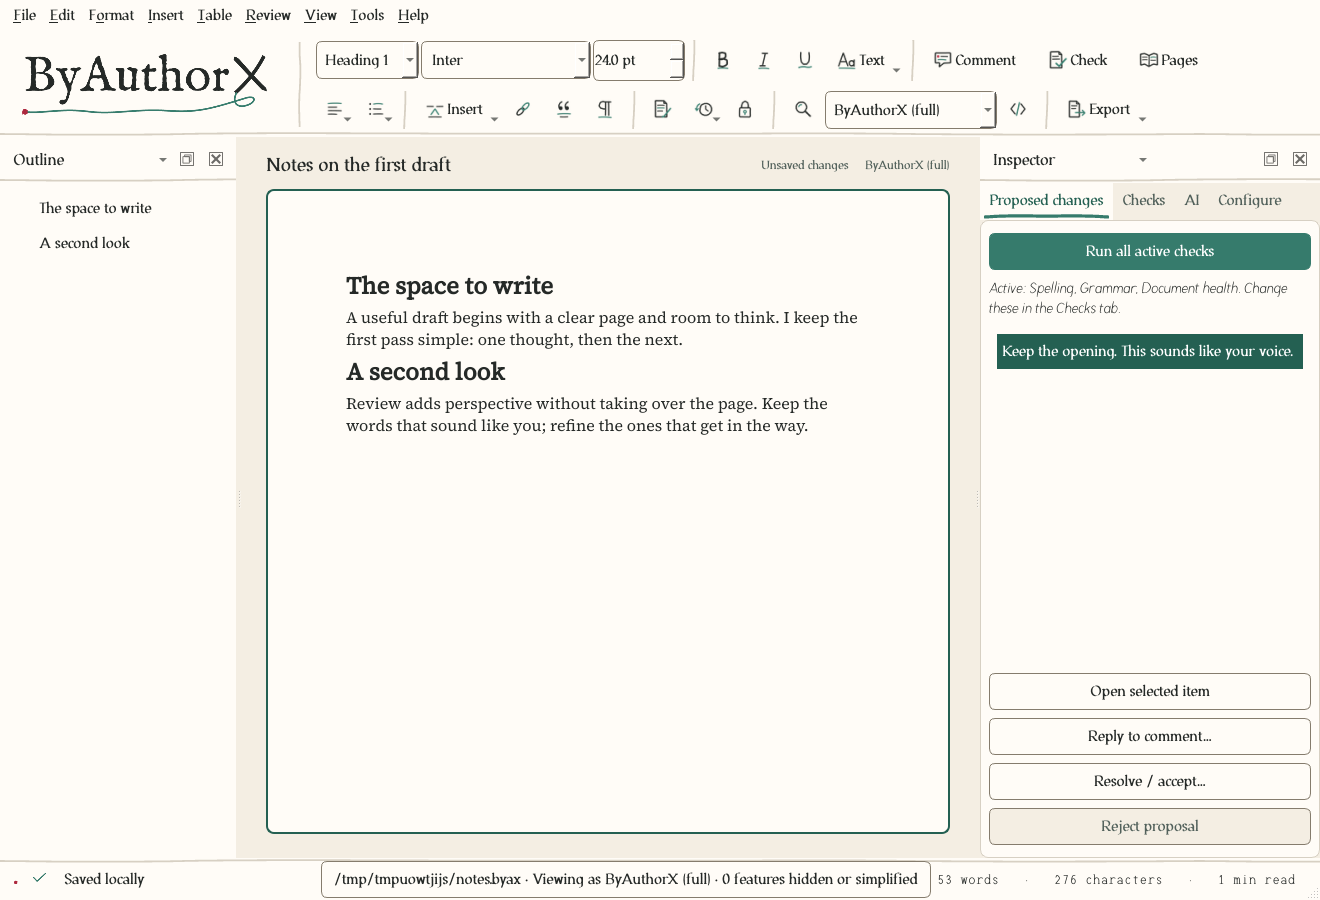
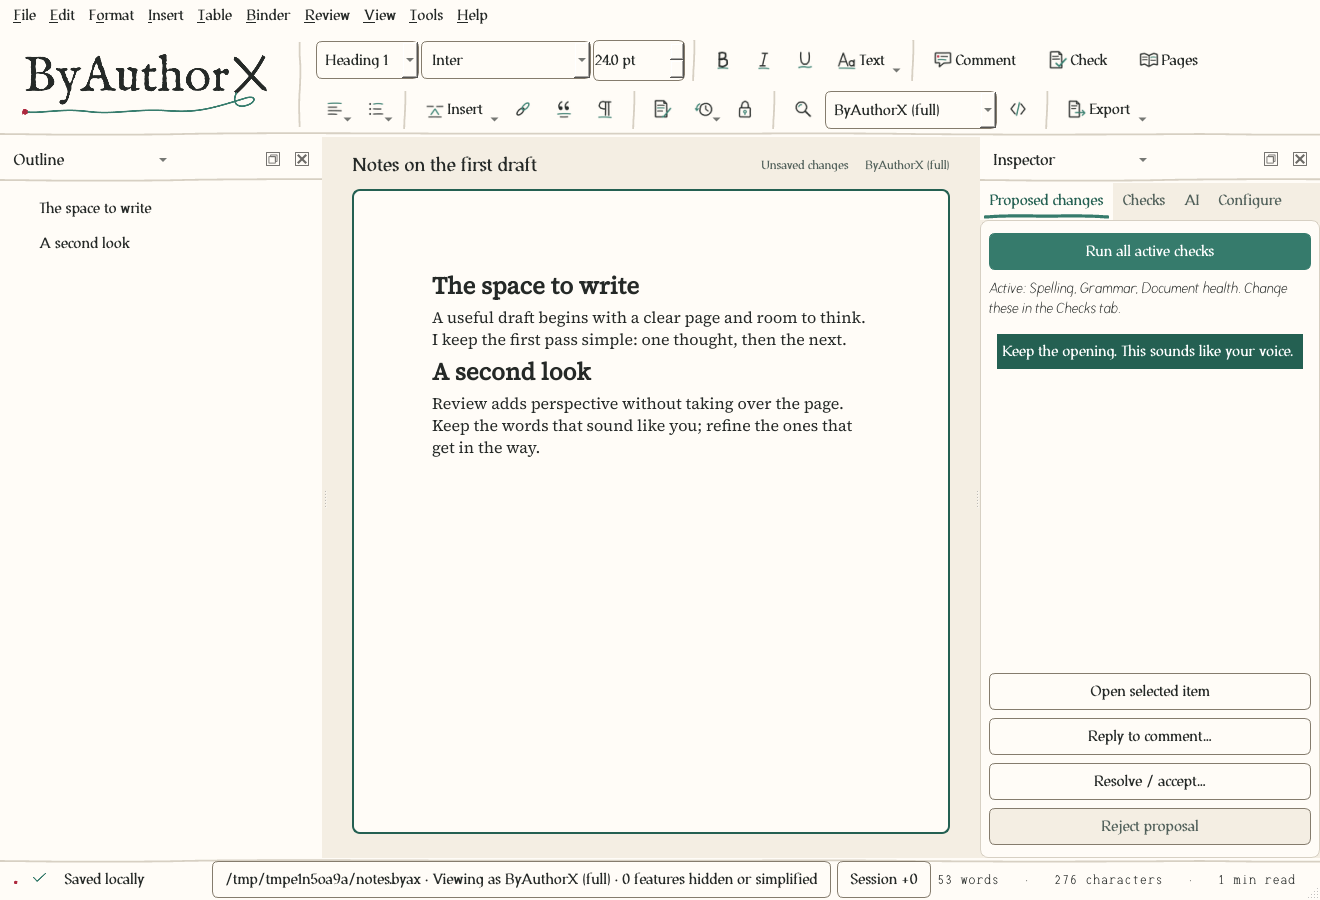
Update README for 0.4.1 and regenerate documentation screenshots
Claude-Session: https://claude.ai/code/session_015NFBh6Nsx9jQK14QV42dE1

diff --git a/README.md b/README.md
@@ -9,7 +9,7 @@
 
 A native desktop word processor with a shared, programmable document engine. Write in a Qt desktop editor, save editable `.byax` documents, inspect and edit through the CLI or MCP, and export through the same typography engine.
 
-**Version 0.3.0** (see the [changelog](CHANGELOG.md)). Installers are unsigned unless a release's notes say otherwise, and have not been verified on physical Windows 11, Ubuntu 24.04 or Apple silicon Mac desktops (the macOS port builds in CI and its platform code is unit tested, but no Mac has run it yet).
+**Version 0.4.1** (see the [changelog](CHANGELOG.md)). Installers are unsigned unless a release's notes say otherwise, and have not been verified on physical Windows 11, Ubuntu 24.04 or Apple silicon Mac desktops (the macOS port builds in CI and its platform code is unit tested, but no Mac has run it yet).
 
 **Implementation status:** runnable application, with automated engine, format, provider-contract, desktop, and integration tests. The complete product specification remains the acceptance target. See [the acceptance matrix](docs/acceptance-matrix.md) for verified behavior and material gaps; this repository does not claim all specification scenarios are complete. Windows 11 x64, Ubuntu 24.04 x64 and macOS 14+ on Apple silicon are the intended installation targets. Live model services and physical desktop integrations require separate verification.
 
@@ -53,6 +53,17 @@ The editor includes a continuous writing view, a paginated preview, semantic out
 The Inspector has four tabs. **Proposed changes** lists pending edits, comments and findings and runs all active checks; **Checks** marks each check (spelling, grammar, document health, information repository, factual accuracy, voice consistency and custom checks) active or inactive; **AI** hosts the assistant with a persisted **Work / Chat** switch; **Configure** holds API keys, information repositories, profiles and export settings. Spelling runs locally with suggestions, exact replacements, a document dictionary, and session-only ignore. Chat mode only answers and never changes the document. Work mode may suggest exact range edits, which are shown to you and, after confirmation, added to Proposed changes as pending proposals; nothing changes until you accept each one. Remote messages show the exact outbound payload for authorization unless the provider's saved policy allows remote calls.
 
 **AI is opt-in, not opt-out.** Nothing sends your writing to a model until you add a provider and choose to use it. You pick the provider: a hosted service with your own key, or a local model that runs on your computer, such as Ollama, whisper.cpp or an OpenAI-compatible local server. Unconfigured AI functions do not prevent writing, saving, printing, or deterministic checks. Each provider requires a chosen model and local configuration; keys stay in OS credential storage or explicit environment references. No accounts, telemetry, or background model polling are required. **Updates are manual too:** ByAuthorX never checks for a new version by itself. Help → Check for updates (or `byax version --check-updates`) makes one request to GitHub's releases page when you ask, and nothing is downloaded or installed. On first run a short tour appears once; **Help → Open sample project** opens a copy of a worked example (see the [user guide](docs/user-guide.md#your-first-minutes)).
+
+## Manuscripts, publishing and review
+
+Version 0.4 adds tools for book-length work, all inside the same `.byax` file and all local by default:
+
+- **Manuscript projects.** The Binder menu organizes parts, chapters, scenes and notes, with outline and corkboard views, synopses, writing goals, and named drafts you can compare scene by scene.
+- **Publishing.** Deterministic EPUB 3 export and import, and File → Compile… with novel, non-fiction and standard-manuscript presets, preflight checks and print-book design.
+- **Interchange.** A Word review round trip that returns editors' tracked changes and comments as proposals, beta-reader copies, and synced-folder safety checks.
+- **Writing quality and research.** Fiction, readability, offline grammar and continuity checks; a codex of characters and places; library search and citation audits that show what the AI saw and whether a quote really appears in its source.
+
+See the [user guide](docs/user-guide.md) for each workflow and the [changelog](CHANGELOG.md) for the full list.
 
 ## File views and appearance
 

diff --git a/CHANGELOG.md b/CHANGELOG.md
@@ -9,6 +9,11 @@ entry as its GitHub Release notes, so use absolute links and no in-page anchors 
 
 ## [Unreleased]
 
+### Changed
+
+- Documentation: the README now states the current version and summarizes the 0.4 manuscript, publishing and
+  review features, and the documentation screenshots were regenerated so they show the Binder menu.
+
 ## [0.4.1] - 2026-10-17
 
 ### Fixed
